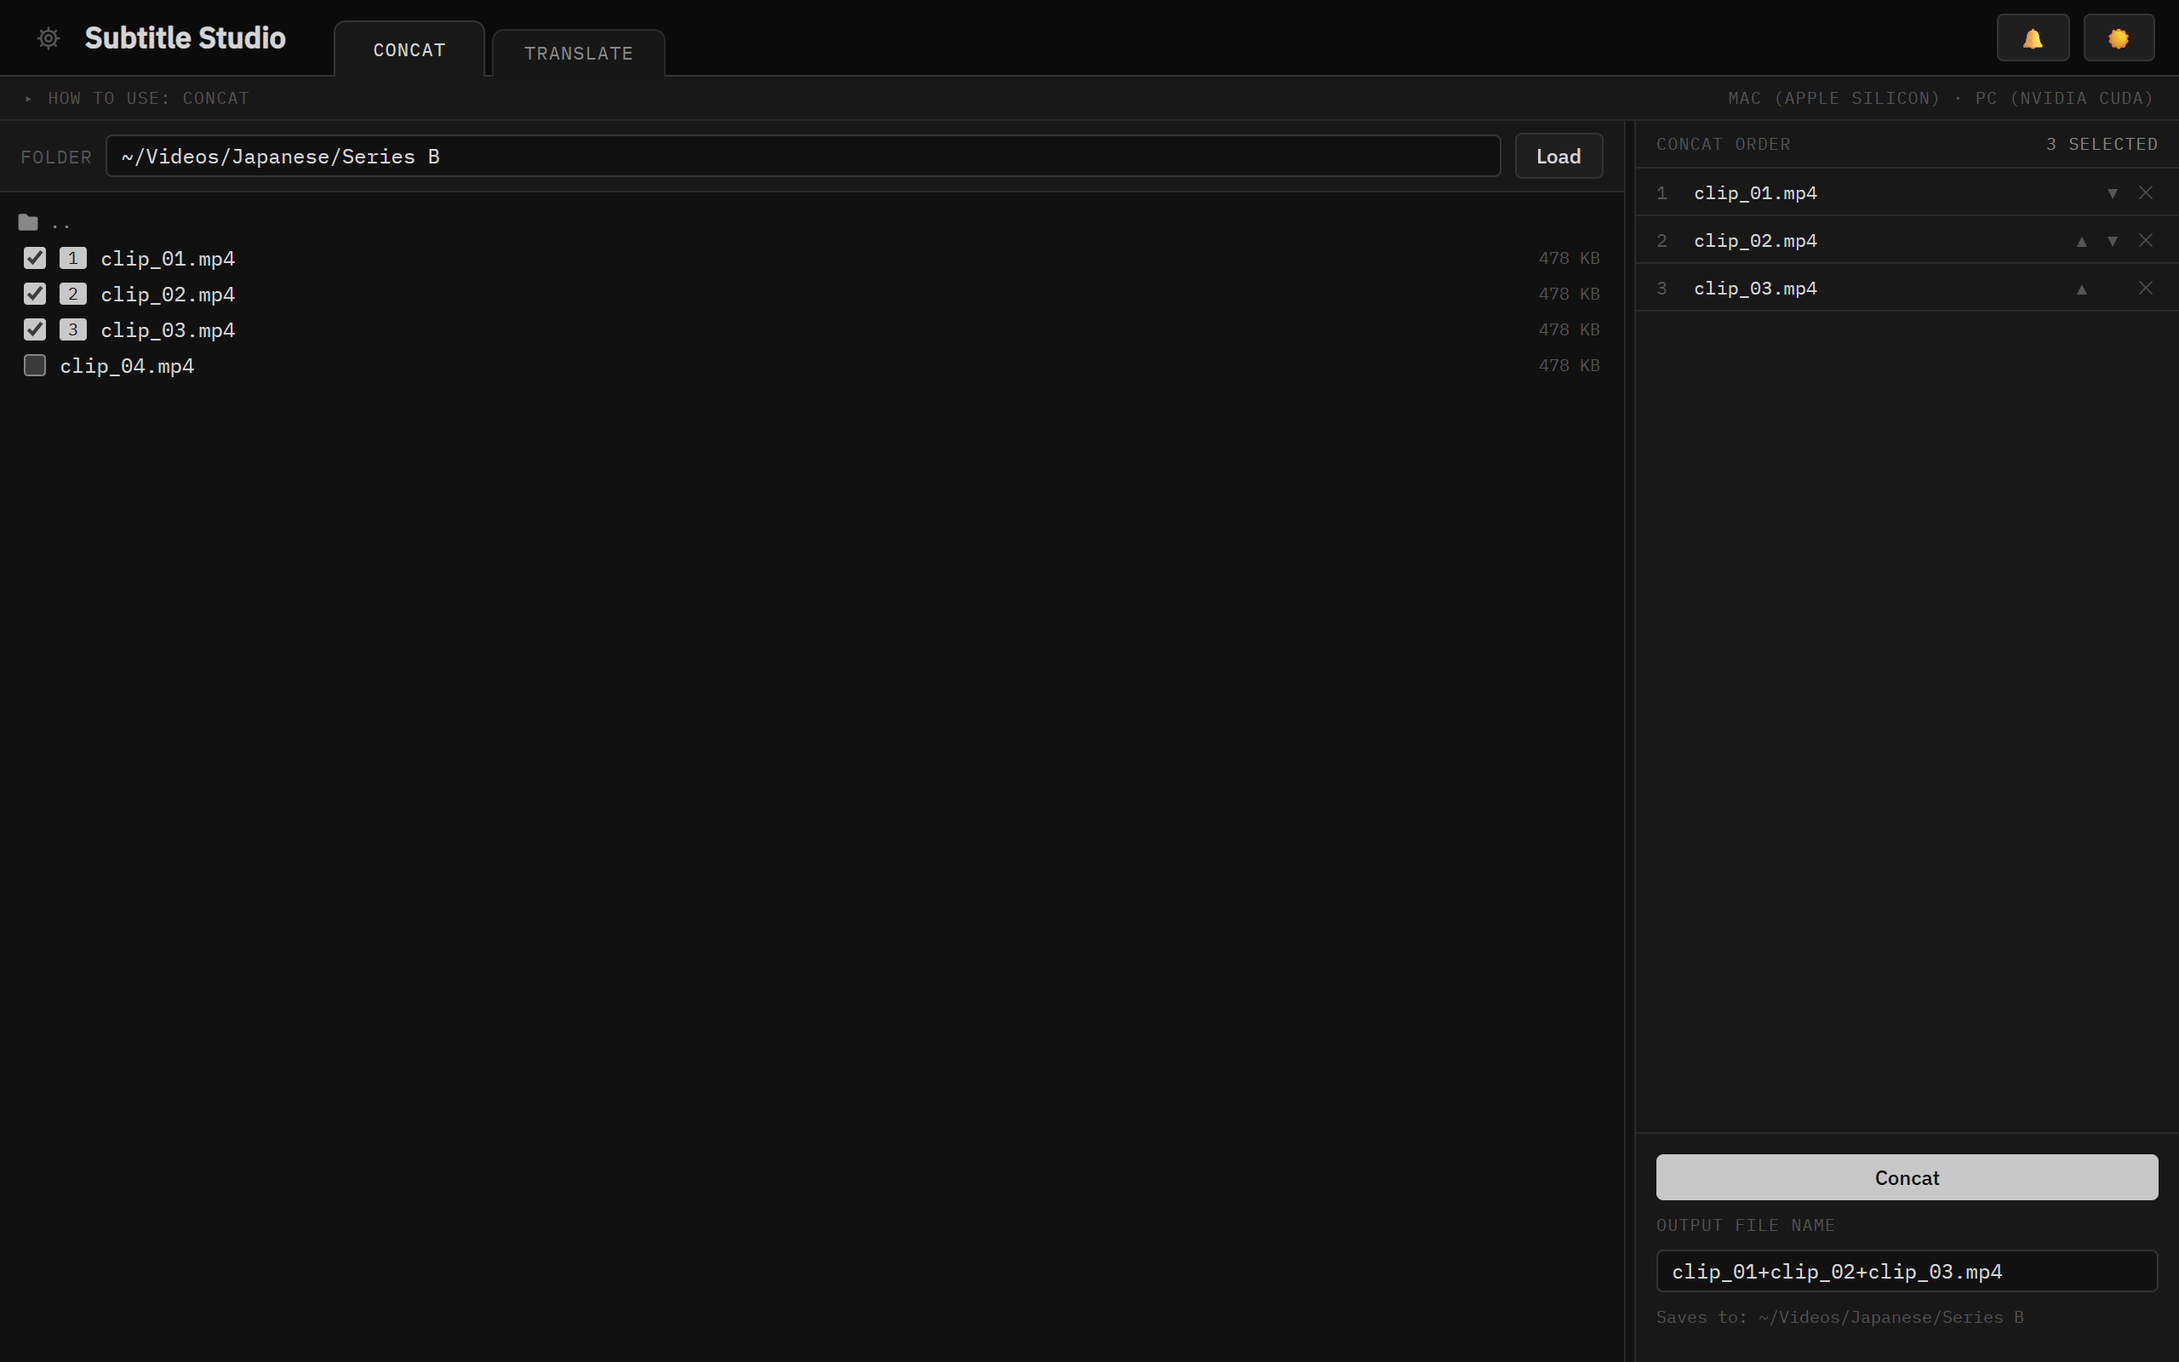
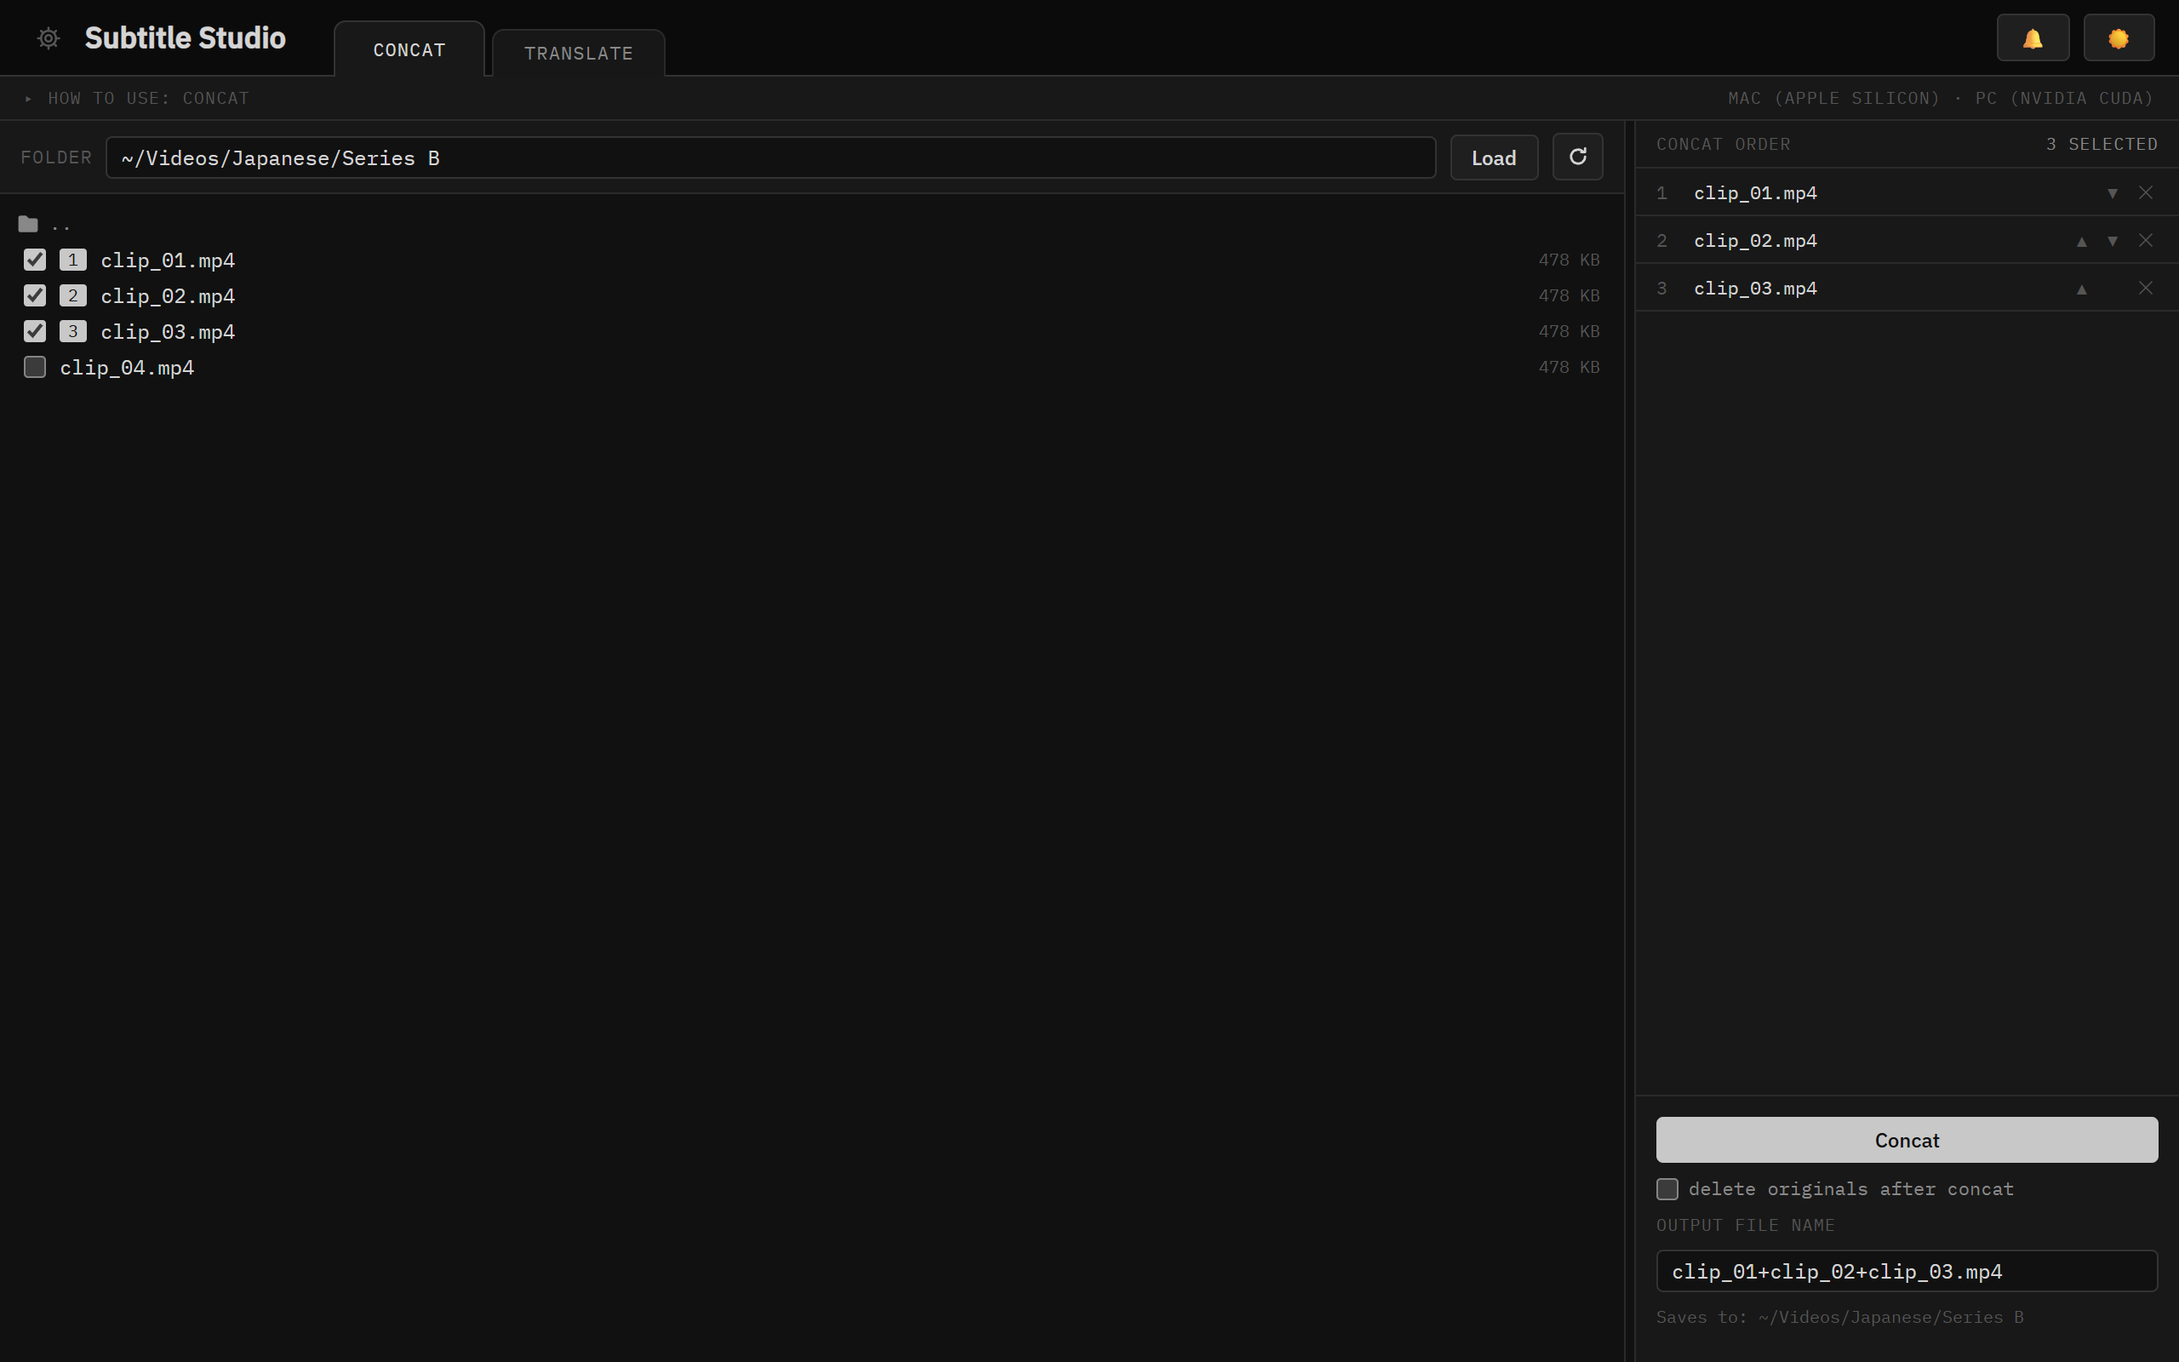
Add "delete originals after concat" and folder reload buttons
- Concat: optional checkbox deletes the source videos, only after ffmpeg
  succeeds and the output is non-empty; skips a video being transcribed.
  The job reports deleted/deleteErrors, shown in the status line.
- Refresh button next to Apply (translate) and Load (concat). Translate
  uses the new POST /api/queue/rescan, which adds new videos and drops
  missing ones without clearing the queue like Apply does.
- Tests for both; screenshots regenerated.

diff --git a/src/server.js b/src/server.js
@@ -1130,14 +1130,37 @@ function stopCurrentJob() {
 // concat demuxer with stream copy (no re-encode), so inputs must share codecs.
 const VIDEO_EXTS = ['.mp4', '.mkv', '.mov', '.m4v', '.ts', '.avi', '.webm', '.flv'];
 
-// concatJob: { status: 'running'|'done'|'error'|'cancelled', files, outputPath, progress, error, log }
+// concatJob: { status: 'running'|'done'|'error'|'cancelled', files, outputPath, progress, error, log,
+//              deleteOriginals, deleted, deleteErrors }
 let concatJob = null;
 let concatProcess = null;
 
 function concatSnapshot() {
   if (!concatJob) return null;
-  const { status, files, outputPath, progress, error } = concatJob;
-  return { status, files, outputPath, progress, error };
+  const { status, files, outputPath, progress, error, deleteOriginals, deleted, deleteErrors } = concatJob;
+  return { status, files, outputPath, progress, error, deleteOriginals, deleted, deleteErrors };
+}
+
+// "Delete originals after concat": only called once ffmpeg succeeded and the
+// output is a non-empty file. Skips a video the queue is transcribing right now.
+function deleteConcatInputs(job) {
+  job.deleted = [];
+  job.deleteErrors = [];
+  let size = 0;
+  try { size = fs.statSync(job.outputPath).size; } catch (e) { /* missing */ }
+  if (!size) { job.deleteErrors.push('output file is missing or empty, kept the originals'); return; }
+  job.files.forEach(f => {
+    if (queue.some(i => i.filePath === f && i.status === 'running')) {
+      job.deleteErrors.push(`${path.basename(f)}: being transcribed, kept`);
+      return;
+    }
+    try {
+      fs.unlinkSync(f);
+      job.deleted.push(f);
+    } catch (e) {
+      job.deleteErrors.push(`${path.basename(f)}: ${e.message}`);
+    }
+  });
 }
 
 function broadcastConcat() {
@@ -1151,11 +1174,11 @@ function concatListLine(filePath) {
   return `file '${p}'`;
 }
 
-async function startConcat(files, outputPath) {
+async function startConcat(files, outputPath, deleteOriginals = false) {
   const listPath = path.join(os.tmpdir(), `whisper-concat-${Date.now()}.txt`);
   fs.writeFileSync(listPath, files.map(concatListLine).join('\n') + '\n', 'utf8');
 
-  concatJob = { status: 'running', files, outputPath, progress: 0, error: null, log: [] };
+  concatJob = { status: 'running', files, outputPath, progress: 0, error: null, log: [], deleteOriginals };
   broadcastConcat();
 
   const durations = await Promise.all(files.map(getDurationSeconds));
@@ -1211,7 +1234,10 @@ async function startConcat(files, outputPath) {
     if (status !== 'done') { try { fs.unlinkSync(outputPath); } catch (e) { /* never created */ } }
     job.status = status;
     job.error = error || null;
-    if (status === 'done') job.progress = 100;
+    if (status === 'done') {
+      job.progress = 100;
+      if (job.deleteOriginals) deleteConcatInputs(job);
+    }
     broadcastConcat();
   };
 
@@ -1476,26 +1502,45 @@ app.post('/api/config', (req, res) => {
     // Clear all non-running queue items and synchronously scan the new folder
     // so the response already contains the full file list (don't wait on chokidar)
     queue = queue.filter(i => i.status === 'running');
-    const scanDir = (dir, depth) => {
-      if (depth > 10) return;
-      try {
-        fs.readdirSync(dir, { withFileTypes: true }).forEach(entry => {
-          const full = path.join(dir, entry.name);
-          if (entry.isDirectory()) {
-            scanDir(full, depth + 1);
-          } else if (entry.name.toLowerCase().endsWith('.mp4') && !queueHas(full)) {
-            const item = makeItem(full);
-            if (isDone(full)) { item.status = 'done'; item.progress = 100; }
-            queue.push(item);
-          }
-        });
-      } catch (e) { /* ignore permission errors on system dirs */ }
-    };
-    if (fs.existsSync(config.watchFolder)) scanDir(config.watchFolder, 0);
+    scanWatchFolder();
     broadcastState();
     startWatcher(config.watchFolder);
   }
   res.json({ ok: true, config: publicConfig(), queue: queue.map(itemSnapshot) });
+});
+
+// Synchronously adds the watch folder's .mp4s that aren't queued yet
+// (so a response can carry the full list without waiting on chokidar)
+function scanWatchFolder() {
+  const scanDir = (dir, depth) => {
+    if (depth > 10) return;
+    try {
+      fs.readdirSync(dir, { withFileTypes: true }).forEach(entry => {
+        const full = path.join(dir, entry.name);
+        if (entry.isDirectory()) {
+          scanDir(full, depth + 1);
+        } else if (entry.name.toLowerCase().endsWith('.mp4') && !queueHas(full)) {
+          const item = makeItem(full);
+          if (isDone(full)) { item.status = 'done'; item.progress = 100; }
+          queue.push(item);
+        }
+      });
+    } catch (e) { /* ignore permission errors on system dirs */ }
+  };
+  if (fs.existsSync(config.watchFolder)) scanDir(config.watchFolder, 0);
+}
+
+// Refresh button: rescan the current watch folder without losing the queue
+// (unlike re-applying the folder, which clears every non-running item).
+// Drops videos that are gone, marks queued ones done if their subtitles appeared.
+app.post('/api/queue/rescan', (req, res) => {
+  queue = queue.filter(i => i.status === 'running' || fs.existsSync(i.filePath));
+  queue.forEach(i => {
+    if (i.status === 'queued' && isDone(i.filePath)) { i.status = 'done'; i.progress = 100; }
+  });
+  scanWatchFolder();
+  broadcastState();
+  res.json({ ok: true, queue: queue.map(itemSnapshot) });
 });
 
 app.get('/api/browse', (req, res) => {
@@ -1544,7 +1589,7 @@ app.get('/api/videos', (req, res) => {
 });
 
 app.post('/api/concat', (req, res) => {
-  const { files, outputName } = req.body;
+  const { files, outputName, deleteOriginals } = req.body;
   if (concatJob && concatJob.status === 'running') return res.status(409).json({ error: 'A concat job is already running' });
   if (!Array.isArray(files) || files.length < 2) return res.status(400).json({ error: 'Select at least 2 files' });
   const missing = files.find(f => typeof f !== 'string' || !fs.existsSync(f));
@@ -1560,7 +1605,7 @@ app.post('/api/concat', (req, res) => {
   if (files.includes(outputPath)) return res.status(400).json({ error: 'Output cannot overwrite one of the inputs' });
   if (fs.existsSync(outputPath)) return res.status(409).json({ error: `File already exists: ${outputPath}` });
 
-  startConcat(files, outputPath);
+  startConcat(files, outputPath, deleteOriginals === true);
   res.json({ ok: true, outputPath });
 });
 

diff --git a/public/index.html b/public/index.html
@@ -855,6 +855,20 @@
     word-break: break-all;
   }
   #concat-status.err { color: var(--danger); }
+  .cc-check {
+    display: flex;
+    align-items: center;
+    gap: 6px;
+    font-family: var(--mono);
+    font-size: 11px;
+    color: var(--text2);
+    cursor: pointer;
+    user-select: none;
+  }
+  /* Refresh (arrow-in-a-circle) buttons next to Apply / Load */
+  .icon-btn { padding-left: 8px; padding-right: 8px; }
+  .icon-btn svg { margin: 2px 0; }
+  .icon-btn.busy { opacity: 0.5; pointer-events: none; }
 
   /* ── Help panel (strip under the tabs, content follows the active tab) ── */
   #help-panel {
@@ -1057,6 +1071,7 @@ hf download openai/whisper-large-v3 tokenizer.json --local-dir ~/models/anime-wh
       <label>WATCH FOLDER</label>
       <input id="folder-input" type="text" placeholder="C:\Videos\Japanese" onkeydown="onFolderKey(event)" />
       <button class="btn" onclick="applyFolder()">Apply</button>
+      <button class="btn icon-btn" onclick="rescanFolder(this)" title="Reload the current folder (keeps the queue)" aria-label="Reload folder"><svg width="12" height="12" viewBox="0 0 16 16" fill="none" stroke="currentColor" stroke-width="1.8" stroke-linecap="round" stroke-linejoin="round"><path d="M13.5 8a5.5 5.5 0 1 1-1.6-3.9"/><polyline points="13.5 1.5 13.5 4.5 10.5 4.5"/></svg></button>
     </div>
 
     <div id="file-tree"></div>
@@ -1129,6 +1144,7 @@ hf download openai/whisper-large-v3 tokenizer.json --local-dir ~/models/anime-wh
       <label>FOLDER</label>
       <input id="concat-folder" class="setting-input" style="flex:1" type="text" onkeydown="if(event.key==='Enter')loadConcatFolder(this.value.trim())" />
       <button class="btn" onclick="loadConcatFolder(document.getElementById('concat-folder').value.trim())">Load</button>
+      <button class="btn icon-btn" onclick="reloadConcatFolder(this)" title="Reload the current folder" aria-label="Reload folder"><svg width="12" height="12" viewBox="0 0 16 16" fill="none" stroke="currentColor" stroke-width="1.8" stroke-linecap="round" stroke-linejoin="round"><path d="M13.5 8a5.5 5.5 0 1 1-1.6-3.9"/><polyline points="13.5 1.5 13.5 4.5 10.5 4.5"/></svg></button>
     </div>
     <div id="concat-list"></div>
   </div>
@@ -1142,6 +1158,7 @@ hf download openai/whisper-large-v3 tokenizer.json --local-dir ~/models/anime-wh
     <div id="concat-selected"></div>
     <div id="concat-actions">
       <button class="btn primary" id="btn-concat" onclick="apiConcat()" disabled>Concat</button>
+      <label class="cc-check" title="After a successful concat, delete the selected source videos (never on error or cancel)"><input type="checkbox" id="concat-delete" /> delete originals after concat</label>
       <span class="cc-label">Output file name</span>
       <input class="setting-input" id="concat-name" type="text" placeholder="combined.mp4" oninput="concat.nameEdited = this.value.trim() !== ''" />
       <div id="concat-outdir"></div>
@@ -1952,6 +1969,21 @@ hf download openai/whisper-large-v3 tokenizer.json --local-dir ~/models/anime-wh
   }
 
   function onFolderKey(e) { if (e.key === 'Enter') applyFolder(); }
+
+  // ⟳ next to Apply: rescan the saved watch folder. Unlike Apply it keeps the
+  // queue (order, errors); it only adds new videos and drops deleted ones.
+  async function rescanFolder(btn) {
+    btn.classList.add('busy');
+    try {
+      const res = await fetch('/api/queue/rescan', { method: 'POST' });
+      const data = await res.json();
+      if (!res.ok) throw new Error(data.error);
+      state.queue = data.queue;
+      document.getElementById('folder-input').value = state.config.watchFolder || '';
+      render();
+    } catch (e) { alert('Could not reload the folder: ' + e.message); }
+    finally { btn.classList.remove('busy'); }
+  }
   async function applyFolder() {
     const val = document.getElementById('folder-input').value.trim();
     if (!val) return;
@@ -2289,6 +2321,20 @@ hf download openai/whisper-large-v3 tokenizer.json --local-dir ~/models/anime-wh
     renderConcat();
   }
 
+  // ⟳ next to Load: re-list the folder that's showing. Selected files from this
+  // folder that are gone now drop out of the concat order.
+  async function reloadConcatFolder(btn) {
+    if (!concat.path) return;
+    btn.classList.add('busy');
+    try {
+      await loadConcatFolder(concat.path);
+      const here = new Set(concat.files.map(f => f.path));
+      const before = concat.selected.length;
+      concat.selected = concat.selected.filter(p => dirName(p) !== concat.path || here.has(p));
+      if (concat.selected.length !== before) renderConcat();
+    } finally { btn.classList.remove('busy'); }
+  }
+
   function renderConcat() {
     const folderIcon = `<svg width="13" height="13" viewBox="0 0 16 16" fill="currentColor"><path d="M1 3.5A1.5 1.5 0 012.5 2h3.586a1 1 0 01.707.293L8.5 4H13.5A1.5 1.5 0 0115 5.5v7A1.5 1.5 0 0113.5 14h-11A1.5 1.5 0 011 12.5v-9z"/></svg>`;
     let html = '';
@@ -2342,7 +2388,12 @@ hf download openai/whisper-large-v3 tokenizer.json --local-dir ~/models/anime-wh
     if (!job) return;
     document.getElementById('concat-bar').style.width = job.progress + '%';
     if (running) setConcatStatus(`Concatenating… ${job.progress}%`);
-    else if (job.status === 'done') setConcatStatus('Done: ' + job.outputPath);
+    else if (job.status === 'done') {
+      let msg = 'Done: ' + job.outputPath;
+      if (job.deleteOriginals && job.deleted) msg += `\nDeleted ${job.deleted.length} of ${job.files.length} originals`;
+      const errs = job.deleteErrors || [];
+      setConcatStatus(errs.length ? msg + '\nNot deleted:\n' + errs.join('\n') : msg, errs.length > 0);
+    }
     else if (job.status === 'cancelled') setConcatStatus('Cancelled');
     else if (job.status === 'error') setConcatStatus('ffmpeg failed:\n' + job.error, true);
   }
@@ -2379,7 +2430,7 @@ hf download openai/whisper-large-v3 tokenizer.json --local-dir ~/models/anime-wh
     const res = await fetch('/api/concat', {
       method: 'POST',
       headers: { 'Content-Type': 'application/json' },
-      body: JSON.stringify({ files: concat.selected, outputName })
+      body: JSON.stringify({ files: concat.selected, outputName, deleteOriginals: document.getElementById('concat-delete').checked })
     });
     const data = await res.json();
     if (!res.ok) setConcatStatus(data.error, true);

diff --git a/test/pipeline.test.js b/test/pipeline.test.js
@@ -314,6 +314,53 @@ test('Concat: show the joined file once it exists', { timeout: MIN }, async () =
     await waitFor(async () => { const j = (await s.get('/api/state')).concat; return j && j.status !== 'running'; }, 30000, 'concat');
     assert.equal((await s.get('/api/state')).concat.status, 'done');
     assert.equal((await s.post('/api/concat/reveal', {})).body.path, path.join(dir, 'joined.mp4'));
+    assert.ok(files.every(f => fs.existsSync(f)), 'originals kept by default');
+  });
+});
+
+test('Concat: "delete originals" removes the inputs only after a successful join', { timeout: MIN }, async () => {
+  const dir = makeWatchFolder();
+  const files = [path.join(dir, 'speech.mp4'), path.join(dir, 'part2.mp4')];
+  fs.copyFileSync(files[0], files[1]);
+  await withServer(baseConfig(dir, { backend: 'ctranslate2', whisperExecutable: 'definitely-not-a-real-whisper' }), async s => {
+    const finished = async () => {
+      await waitFor(async () => { const j = (await s.get('/api/state')).concat; return j && j.status !== 'running'; }, 30000, 'concat');
+      return (await s.get('/api/state')).concat;
+    };
+    // A failed join (the inputs aren't videos) must leave them alone
+    const bad = [path.join(dir, 'a.mp4'), path.join(dir, 'b.mp4')];
+    bad.forEach(f => fs.writeFileSync(f, 'not a video'));
+    assert.equal((await s.post('/api/concat', { files: bad, outputName: 'bad.mp4', deleteOriginals: true })).status, 200);
+    assert.equal((await finished()).status, 'error');
+    assert.ok(bad.every(f => fs.existsSync(f)), 'inputs kept after a failed concat');
+
+    assert.equal((await s.post('/api/concat', { files, outputName: 'joined.mp4', deleteOriginals: true })).status, 200);
+    const job = await finished();
+    assert.equal(job.status, 'done');
+    assert.deepEqual(job.deleted, files);
+    assert.deepEqual(job.deleteErrors, []);
+    assert.ok(files.every(f => !fs.existsSync(f)), 'originals deleted');
+    assert.ok(fs.statSync(path.join(dir, 'joined.mp4')).size > 0, 'joined file kept');
+  });
+});
+
+test('Reload folder: picks up new and removed videos without clearing the queue', { timeout: MIN }, async () => {
+  const dir = makeWatchFolder();
+  await withServer(baseConfig(dir, { backend: 'ctranslate2', whisperExecutable: 'definitely-not-a-real-whisper' }), async s => {
+    await waitFor(async () => (await s.get('/api/state')).queue.length === 1, 10000, 'initial scan');
+    const [first] = (await s.get('/api/state')).queue;
+
+    fs.copyFileSync(path.join(dir, 'speech.mp4'), path.join(dir, 'new.mp4'));
+    fs.writeFileSync(path.join(dir, 'speech.srt'), '');
+    let { body } = await s.post('/api/queue/rescan', {});
+    assert.deepEqual(body.queue.map(i => i.name).sort(), ['new.mp4', 'speech.mp4'], 'new video listed at once');
+    const kept = body.queue.find(i => i.name === 'speech.mp4');
+    assert.equal(kept.id, first.id, 'existing item kept, not recreated');
+    assert.equal(kept.status, 'done', 'subtitles that appeared mark it done');
+
+    fs.rmSync(path.join(dir, 'new.mp4'));
+    ({ body } = await s.post('/api/queue/rescan', {}));
+    assert.deepEqual(body.queue.map(i => i.name), ['speech.mp4'], 'deleted video dropped');
   });
 });
 
